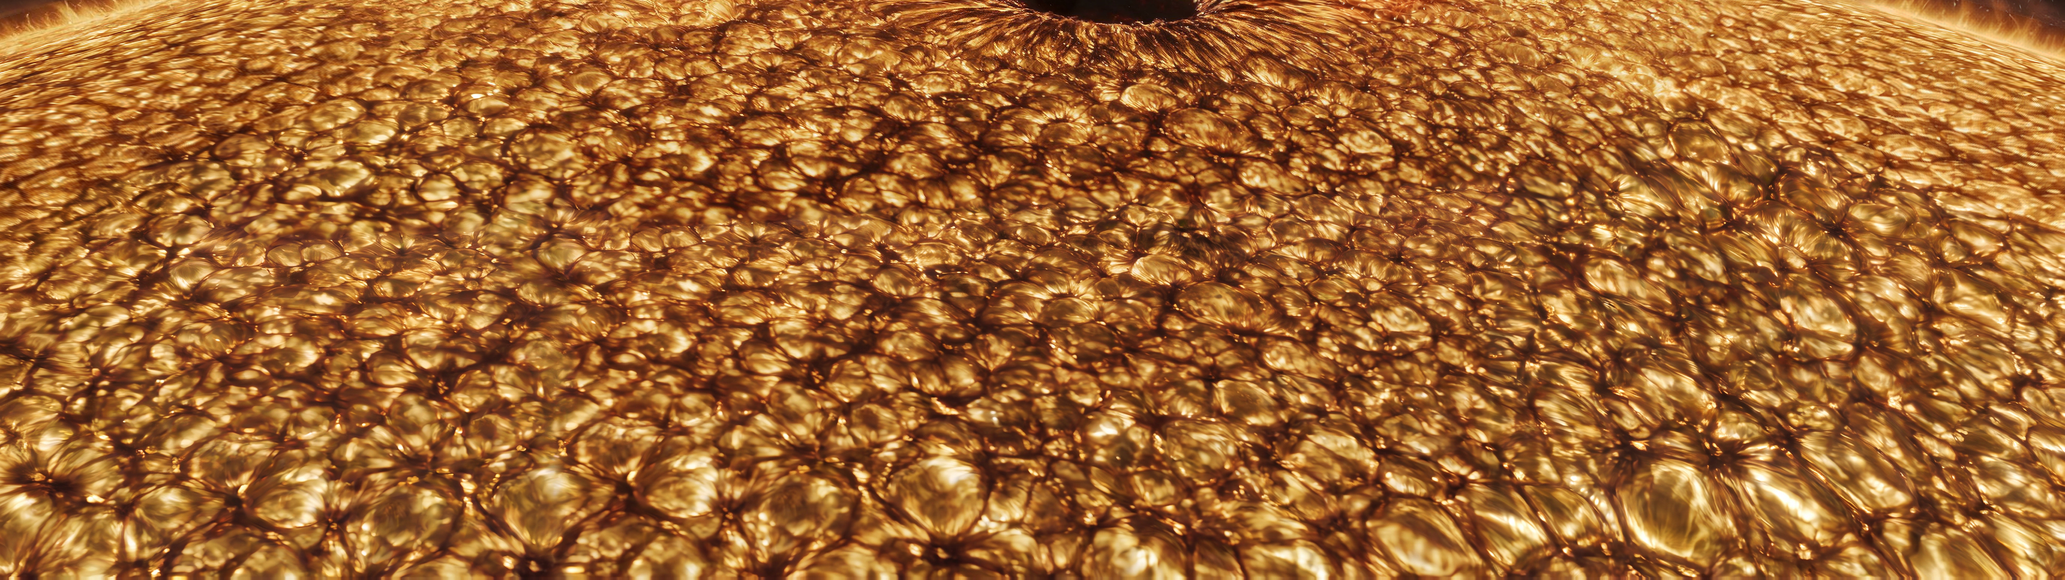
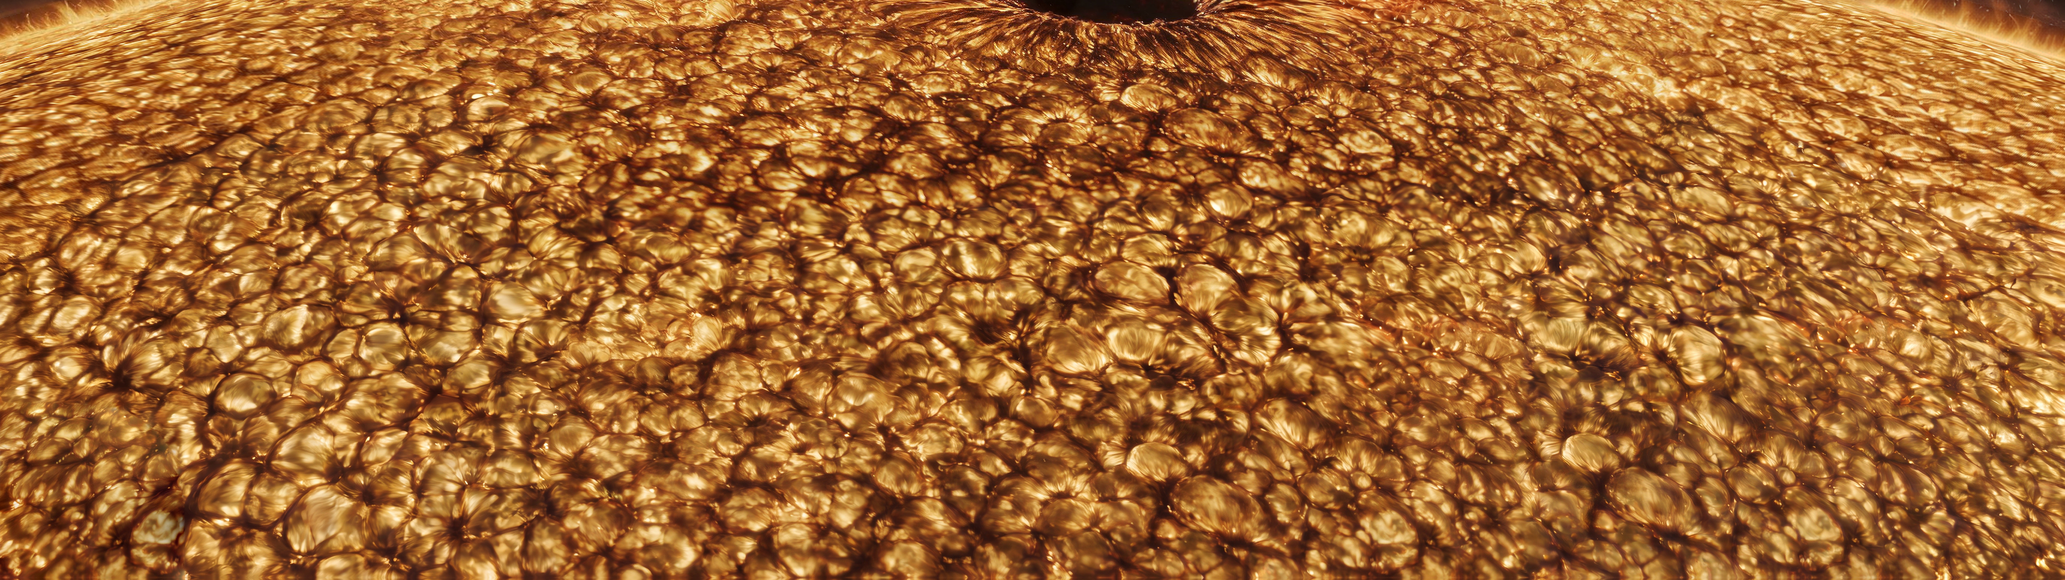
Sun: apron painted again (matte cells), feather outside the approved frame at 90, frame 0 pose on the apron camera

diff --git a/src/stops/sun/ground.ts b/src/stops/sun/ground.ts
@@ -11,7 +11,7 @@ export interface GroundLook {
   rings: number
   sectors: number
   cell: number
-  apron: { amount: number; cell: number; calm: number }
+  apron: { amount: number; cell: number; calm: number; out: [number, number] }
   band: [number, number]
   glow: [number, number]
   boil: { reach: number; period: number; step: number; max: number }
@@ -37,6 +37,7 @@ uniform sampler2D uPlate;
 uniform sampler2D uApron;
 uniform vec2 uApronSize;
 uniform float uApronOn;
+uniform float uApronOut;
 uniform vec2 uApronCell;
 uniform sampler2D uGlow;
 uniform vec4 uBox;
@@ -156,11 +157,13 @@ export class Ground {
   readonly mesh: THREE.Mesh
   readonly material: THREE.ShaderMaterial
   private readonly pulse: [number, number]
+  private readonly out: [number, number]
 
   constructor(plate: THREE.Texture, apron: THREE.Texture, glow: THREE.Texture, grade: THREE.Texture, look: GroundLook) {
     const img = plate.image as unknown as { width: number; height: number }
     const second = apron.image as unknown as { width: number; height: number }
     this.pulse = look.glow
+    this.out = look.apron.out
     const up = stage.down.clone().negate()
     const e1 = new THREE.Vector3(1, 0, 0).addScaledVector(up, -up.x).normalize()
     const e2 = up.clone().cross(e1)
@@ -175,7 +178,7 @@ export class Ground {
       vertexShader: VERT,
       fragmentShader: FRAG,
       uniforms: {
-        uGrade: { value: grade }, uPlate: { value: plate }, uApron: { value: apron }, uApronSize: { value: new THREE.Vector2(second.width, second.height) }, uApronOn: { value: look.apron.amount }, uApronCell: { value: new THREE.Vector2(look.apron.cell, look.apron.calm) }, uGlow: { value: glow }, uBox: { value: new THREE.Vector4(...stage.loopsBox) }, uGlowBeat: { value: 1 }, uSize: { value: new THREE.Vector2(img.width, img.height) },
+        uGrade: { value: grade }, uPlate: { value: plate }, uApron: { value: apron }, uApronSize: { value: new THREE.Vector2(second.width, second.height) }, uApronOn: { value: look.apron.amount }, uApronOut: { value: 0 }, uApronCell: { value: new THREE.Vector2(look.apron.cell, look.apron.calm) }, uGlow: { value: glow }, uBox: { value: new THREE.Vector4(...stage.loopsBox) }, uGlowBeat: { value: 1 }, uSize: { value: new THREE.Vector2(img.width, img.height) },
         uGain: { value: 1 }, uVignette: { value: 0 }, uAspect: { value: 16 / 9 }, uTime: { value: 0 },
         uCellSize: { value: look.cell },
         uBoil: { value: new THREE.Vector4(look.boil.reach, look.boil.period, look.boil.step, look.boil.max) },
@@ -222,6 +225,7 @@ export class Ground {
     u.uLod!.value = lod
     ;(u.uCam!.value as THREE.Vector3).copy(camera)
     u.uTime!.value = time
+    u.uApronOut!.value = THREE.MathUtils.smoothstep(time, this.out[0], this.out[1])
     u.uGlowBeat!.value = stage.litMax * (1 + lit) * (1 + this.pulse[0] * (0.6 * Math.sin(time * this.pulse[1]) + 0.4 * Math.sin(time * this.pulse[1] * 1.83)))
     u.uGain!.value = gain
     u.uVignette!.value = vignette

diff --git a/src/stops/sun/plan.ts b/src/stops/sun/plan.ts
@@ -33,7 +33,7 @@ export const climb = {
   level: 0.15,
   coast: 4,
   steps: 2048,
-  ease: { over: 3, settle: 0.55, skew: 0.6, span: 0.8 },
+  ease: { over: 3, settle: 0.55, skew: 0.6, span: 0.8, lead: 1 / 120 },
 }
 
 interface Reading { out: THREE.Vector3; height: number; level: THREE.Vector3; limb: number; vfov: number; rest: THREE.Quaternion }
@@ -84,8 +84,9 @@ export class SunPlan extends StopPlan {
     }
     const calm = sum(slow)
     const fast = sum(swoop)
-    const gain = (1 - calm[climb.steps]!) / fast[climb.steps]!
-    this.eased = calm.map((v, i) => v + gain * fast[i]!)
+    const lead = k.lead / k.over
+    const gain = (1 - lead - calm[climb.steps]!) / fast[climb.steps]!
+    this.eased = calm.map((v, i) => lead + v + gain * fast[i]!)
   }
 
   private read(pose: Pose): Reading {
@@ -149,7 +150,7 @@ export class SunPlan extends StopPlan {
 
   override terrain(tRel: number): Pose {
     const k = climb.ease
-    if (tRel <= 0) return super.terrain(tRel)
+    if (tRel <= 0) return super.terrain(k.lead + tRel)
     if (tRel >= k.over) return super.terrain(k.over + k.settle * (tRel - k.over))
     return super.terrain(k.over * this.warp(tRel / k.over))
   }

diff --git a/src/stops/sun/apron.ts b/src/stops/sun/apron.ts
@@ -37,7 +37,8 @@ vec2 apUv(vec2 b) {
 }
 float apWeight(vec3 p, vec2 b) {
   vec2 a = stImage(p);
-  float inside = smoothstep(0.0, AP_FEATHER, a.x) * smoothstep(0.0, AP_FEATHER, 1.0 - a.x) * smoothstep(0.0, AP_FEATHER, 1.0 - a.y);
+  float shift = AP_FEATHER * uApronOut;
+  float inside = smoothstep(0.0, AP_FEATHER, a.x + shift) * smoothstep(0.0, AP_FEATHER, 1.0 - a.x + shift) * smoothstep(0.0, AP_FEATHER, 1.0 - a.y + shift);
   vec3 r = p - ST_DOWN;
   float near = 1.0 - smoothstep(AP_NEAR.x, AP_NEAR.y, length(vec2(dot(r, ST_RIGHT), dot(r, ST_FWD)) - AP_NADIR));
   float beyond = max(max(-b.x, b.x - 1.0), b.y - 1.0);

diff --git a/src/stops/sun/look.ts b/src/stops/sun/look.ts
@@ -48,7 +48,7 @@ export const ground: GroundLook = {
   rings: 252,
   sectors: 288,
   cell: 0.16,
-  apron: { amount: 1, cell: 0.1, calm: 0 },
+  apron: { amount: 1, cell: 0.1, calm: 0, out: [-1, -0.1] },
   band: [2.2, 1.2],
   glow: [0.22, 4.3],
   boil: { reach: 0.25, period: 2.6, step: 0.3, max: 0.06 },

diff --git a/assets-src/sun/terrain/apron2.py b/assets-src/sun/terrain/apron2.py
@@ -9,6 +9,8 @@ TILE = 2752
 AT = {'C': 1376, 'L': 0, 'R': 2752}
 GREY_FROM = 0.4
 MARGIN = 160
+EDGE = 12
+FEATHER = 3
 CANVAS = f'{WORK}/apron2-canvas.png'
 DONE = f'{WORK}/apron2-done.png'
 
@@ -54,7 +56,7 @@ def place(name):
     warp = np.eye(2, 3, dtype=np.float32)
     cc, warp = cv2.findTransformECC(g0, g1, warp, cv2.MOTION_AFFINE, (cv2.TERM_CRITERIA_EPS | cv2.TERM_CRITERIA_COUNT, 300, 1e-7), small(keep, cv2.INTER_NEAREST), 5)
     warp[:, 2] *= k
-    moved = cv2.warpAffine(take, warp, (w, h), flags=cv2.INTER_CUBIC | cv2.WARP_INVERSE_MAP, borderMode=cv2.BORDER_REPLICATE)
+    moved = cv2.warpAffine(take, warp, (w, h), flags=cv2.INTER_CUBIC | cv2.WARP_INVERSE_MAP, borderMode=cv2.BORDER_REFLECT_101)
     m = keep > 0
     a = src[m].astype(np.float64).mean(0)
     b = moved[m].astype(np.float64).mean(0)
@@ -64,6 +66,8 @@ def place(name):
     moved = np.clip(o * ((a / b)[None, None, :] * (1 - hot) + hot), 0, 255)
     alpha = np.clip(cv2.GaussianBlur(grey.astype(np.float32), (0, 0), 8) * 2, 0, 1)[..., None]
     canvas = read(CANVAS)
+    if name != 'C':
+        alpha = alpha * cut(name, grey, canvas[:, x:x + w].astype(np.float32), moved)[..., None]
     canvas[:, x:x + w] = np.clip(canvas[:, x:x + w] * (1 - alpha) + moved * alpha, 0, 255).astype(np.uint8)
     write(CANVAS, canvas)
     done = read(DONE)
@@ -75,6 +79,60 @@ def place(name):
     write(DONE, done)
     json.dump({'matrix': warp.tolist(), 'cc': float(cc), 'means': [a.tolist(), b.tolist()], 'kept difference': diff}, open(f'{WORK}/apron2-place-{name}.json', 'w'))
     print(name, 'cc', round(float(cc), 4), 'matrix', warp.round(4).tolist(), 'kept ground: mean abs difference', round(diff, 2), 'means', a.round(1), b.round(1))
+
+
+def mend(name, other, box):
+    x0, y0, x1, y1 = box
+    take = read(f'{WORK}/apron2-take-{name}.png')
+    donor = read(f'{WORK}/apron2-take-{other}.png')
+    h, w = take.shape[:2]
+    patch = donor[y0:y1, w - x1:w - x0][:, ::-1].copy()
+    pad = 48
+    big = cv2.copyMakeBorder(take, pad, pad, pad, pad, cv2.BORDER_REFLECT_101)
+    src = cv2.copyMakeBorder(patch, pad, pad, pad, pad, cv2.BORDER_REFLECT_101)
+    mask = np.zeros(src.shape[:2], np.uint8)
+    ph, pw = patch.shape[:2]
+    yy, xx = np.mgrid[0:src.shape[0], 0:src.shape[1]].astype(np.float32)
+    inside = ((xx - pad) / pw) ** 4 + ((ph + pad - yy) / ph) ** 4 < 0.82
+    mask[inside] = 255
+    mask[:8] = 0
+    mask[:, -8:] = 0
+    mask[-8:] = 0
+    mask[:, :8] = 0
+    centre = (x0 + pad + pw // 2, y0 + pad + ph // 2)
+    ys, xs = np.nonzero(mask)
+    cx, cy = (int(xs.min()) + int(xs.max())) // 2, (int(ys.min()) + int(ys.max())) // 2
+    centre = (x0 + cx, y0 + cy)
+    out = cv2.seamlessClone(cv2.cvtColor(src, cv2.COLOR_RGB2BGR), cv2.cvtColor(big, cv2.COLOR_RGB2BGR), mask, centre, cv2.NORMAL_CLONE)
+    out = cv2.cvtColor(out, cv2.COLOR_BGR2RGB)[pad:pad + h, pad:pad + w]
+    write(f'{WORK}/apron2-take-{name}.png', out)
+    print(name, 'mended from', other, box, 'changed share', round(float((np.abs(out.astype(np.int32) - take).sum(axis=2) > 6).mean()), 4))
+
+
+def cut(name, grey, old, new):
+    h, w = grey.shape
+    lo, hi = (AT['C'] - AT[name], AT['C'] + MARGIN - AT[name]) if name == 'L' else (AT['C'] + TILE - MARGIN - AT[name], AT['C'] + TILE - AT[name])
+    lo, hi = lo + EDGE, hi - EDGE
+    rows = np.nonzero(grey[:, lo:hi].all(axis=1))[0]
+    top, n = int(rows.min()), hi - lo
+    cost = cv2.GaussianBlur(np.abs(old - new).sum(axis=2), (0, 0), 2)[top:, lo:hi].astype(np.float64)
+    acc = cost.copy()
+    for r in range(1, acc.shape[0]):
+        prev = acc[r - 1]
+        best = np.minimum(prev, np.minimum(np.concatenate(([np.inf], prev[:-1])), np.concatenate((prev[1:], [np.inf]))))
+        acc[r] += best
+    path = np.zeros(acc.shape[0], np.int32)
+    path[-1] = int(np.argmin(acc[-1]))
+    for r in range(acc.shape[0] - 2, -1, -1):
+        c = path[r + 1]
+        a, b = max(c - 1, 0), min(c + 2, n)
+        path[r] = a + int(np.argmin(acc[r, a:b]))
+    side = np.ones((h, w), np.float32)
+    cols = np.arange(w)[None, :]
+    line = (lo + path)[:, None]
+    side[top:] = (cols < line) if name == 'L' else (cols >= line)
+    print(name, 'cut: mean cost on the path', round(float(cost[np.arange(len(path)), path].mean()), 1), 'in the band', round(float(cost.mean()), 1), 'columns', int(path.min()) + lo, 'to', int(path.max()) + lo)
+    return cv2.GaussianBlur(side, (0, 0), FEATHER)
 
 
 def build():
@@ -92,5 +150,7 @@ if __name__ == '__main__':
         tile_input(sys.argv[2])
     if cmd == 'place':
         place(sys.argv[2])
+    if cmd == 'mend':
+        mend(sys.argv[2], sys.argv[3], [int(v) for v in sys.argv[4:8]])
     if cmd == 'build':
         build()

diff --git a/assets-src/sun/RECIPE.md b/assets-src/sun/RECIPE.md
@@ -120,16 +120,22 @@ Shared inputs:
 
 - What it is: the near ground that the approved image does not show (the camera of frame 0 is 1.45 camera heights behind and 0.52 above the approved pose). It is projected from the frozen camera of frame 0 and mixed in outside the approved frame.
 - Output: `apron.jpg` 5504 x 1548 (rows 0.5 to 1 of the picture of frame 0) and 2752 x 774, JPEG 92 and 88, 4:4:4.
-- `src/stops/sun/apron.json`: `npx tsx assets-src/sun/terrain/apron-pose.ts`, the camera of frame 0 at the time of the take (position, quaternion, field of view), the first row kept, the reach on the ground (full within 3.0 camera heights of the point under that camera, gone at 3.6) and the feather inside the approved frame (0.04 of the frame). The projector does not follow the plan: if the terrain move changes, frame 0 no longer gives the painting back exactly, and the takes should be made again.
+- `src/stops/sun/apron.json`: `npx tsx assets-src/sun/terrain/apron-pose.ts`, the camera of frame 0 at the time of the take (position, quaternion, field of view), the first row kept, the reach on the ground (full within 3.0 camera heights of the point under that camera, gone at 3.6) and the feather inside the approved frame (0.04 of the frame). The projector does not follow the plan: if the terrain move changes, frame 0 no longer gives the painting back exactly, and the takes should be made again. The pose is the base glide at 1/120 s (the middle of the shutter of frame 0 before the eased start existed). `climb.ease.lead` in `plan.ts` (1/120 s) starts the eased glide at that pose, so frame 0 is the canvas itself; without it the camera stood 0.0044 units further back and the left 8 px of frame 0 showed the mirrored wrap of the plate.
 - Base picture: `out/work/sun/apron-base.png`, frame 0 at the draft tier without grain (`npm run still -- --frame 0 --tier draft --diag nograin`), with `look.ground.boil.reach` 0, `look.ground.twinkle.amount` 0 and `look.ground.apron.amount` 0. Its lower half (rows 540 to 1079) is enlarged to 5504 x 1548: `python3 tools/ml/upscale.py --in out/work/sun/apron2-base-low.png --out out/work/sun/apron2-base-low-x.png --width 5504`.
 - Painted in three tiles of 2752 x 1548 on that canvas, so the plate holds 2.87 painted pixels for each pixel of frame 0 (the first version was one take of the whole frame, 1.43, enlarged). Script: `assets-src/sun/terrain/apron2.py`, run with `PYTHONPATH=assets-src/sun/terrain`: `start`, then for the tiles C (columns 1376 to 4127), L (0 to 2751) and R (2752 to 5503): `input NAME` (the canvas with flat grey 128 wherever the apron weight is 0.4 or more and nothing is painted yet), one generation, `place NAME` (affine placement of the take on the tile over the kept ground by ECC, channel means matched over the kept ground with the match fading out above 170 to 245 of 255, pasted into the grey area with a soft edge), then `build`. L and R see the finished centre in their inner half, less a margin of 160 px that they paint again, so cells run on across the tile borders.
 - Tool and model: `generate_image`, model `nano_banana_pro`, aspect 16:9, images: the tile input only.
-- Prompt for tile C, exact: "This picture is part of a film frame of the surface of the Sun in which the lower part has been painted out with flat grey. Fill the whole grey area by continuing the picture downward seamlessly, so the result is one single finished picture with no visible seam and no grey left anywhere. The grey area is the foreground of the same boiling golden solar surface: granulation cells of the same look, color, contrast and lighting as the cells just above the grey edge, each cell a rounded swollen dome of glowing plasma with a bright golden crown, fine wispy filaments on its skin, small white-hot glints, and narrow dark brown lanes between the cells. The ground is one continuous surface that comes only a little closer to the camera toward the bottom of the picture, so the cells grow only slightly and steadily toward the bottom edge: just below the grey edge they are exactly the same size as the cells above it, and at the bottom edge of the picture they are about one and a half times as large. There are no giant cells anywhere: the grey area holds many hundreds of small cells, nothing else. Every cell is crisp and sharply detailed, in full focus, with no blur, no smearing, no stretching and no haze. Keep everything outside the grey area exactly as it is, same position and size: the dark sunspot at the top edge stays the only sunspot in the picture. No second sunspot, no dark holes, no radial filament patterns in the new area, no arcs, no new light sources, no horizon, no sky, no text, no border, no vignette, no depth of field blur. Wide 16:9 picture."
-- Prompt for tiles L and R, exact, with SIDE = left or right: "This picture is part of a film frame of the surface of the Sun in which a large area at the lower SIDE has been painted out with flat grey. Fill the whole grey area by continuing the picture seamlessly, so the result is one single finished picture with no visible seam and no grey left anywhere. The grey area is more of the same boiling golden solar surface: granulation cells of the same look, color, contrast and lighting as the cells that border the grey area, each cell a rounded swollen dome of glowing plasma with a bright golden crown, fine wispy filaments on its skin, small white-hot glints, and narrow dark brown lanes between the cells. The ground is one continuous surface that comes only a little closer to the camera toward the bottom of the picture: at every height of the picture the new cells are the same size as the finished cells beside the grey area at that height, small near the top of the grey area and about one and a half times as large at the bottom edge of the picture. There are no giant cells anywhere: the grey area holds many hundreds of cells, nothing else. Cells that are cut by the grey edge continue naturally into the new area. Every cell is crisp and sharply detailed, in full focus, with no blur, no smearing, no stretching and no haze. Keep everything outside the grey area exactly as it is, same position and size. No sunspot, no dark holes, no radial filament patterns in the new area, no arcs, no new light sources, no horizon, no sky, no text, no border, no vignette, no depth of field blur. Wide 16:9 picture."
-- Takes in round 10: 4 of 6. Tile C take 1 (`out/work/sun/apron2-take-C-rejected1.png`, with the lower half of the approved image as a second picture for style) pasted that picture into the grey area, with a second sunspot: not used, and no style picture since. Tile C take 2, tile L take 1 and tile R take 1 are kept (`out/work/sun/apron2-take-C.png`, `-L.png`, `-R.png`). Placement: correlation 0.996, 0.995, 0.998; each take is the tile cropped by 0.8 percent in height.
-- Why it replaced the first version (one take of the whole frame, 2 takes before the round, `assets-src/sun/terrain/apron.py register` and `build`): that prompt asked for cells three times as large at the bottom edge. The true growth from the edge of the approved ground to the bottom of frame 0 is 1.4 in width (distance 2.6 to 1.87 camera heights). On frame 60 the painted cells below row 935 were about 2.5 times the size of the approved cells just above them, and soft (0.7 painted pixels for each frame pixel).
+- Painted again in round 11, because the critics of round 10 found the round 10 cells glossy like molten metal, with diagonal streaks and soft blobs along the bottom. The prompts now describe the surface as matte cloud and forbid sheen and streaks.
+- Prompt for tile C, exact: "This picture is part of a film frame of the surface of the Sun in which the lower part has been painted out with flat grey. Fill the whole grey area by continuing the picture downward seamlessly, so the result is one single finished picture with no visible seam and no grey left anywhere. The grey area is the foreground of the same boiling golden solar surface: convection cells of the same look, color, contrast and lighting as the cells just above the grey edge. Each cell is a soft, swollen, pillow-like dome of incandescent gas, like the top of a glowing cumulus cloud lit from within: a soft creamy gold crown that falls off to deep orange and then dark brown on its flanks, with fine fibrous veins and wisps running down the flanks. The surface of every cell is matte and soft like glowing cloud or embers. It is not metal, not gold foil, not liquid, not glass: no glossy sheen, no mirror reflections, no long bright streaks, no ripples. Between the cells run deep, wide, dark brown to nearly black clefts, so every cell stands out as its own rounded cushion with real depth. The ground is one continuous surface that comes only a little closer to the camera toward the bottom of the picture, so the cells grow only slightly and steadily toward the bottom edge: just below the grey edge they are exactly the same size as the cells above it, and at the bottom edge of the picture they are about one and a half times as large. There are no giant cells anywhere: the grey area holds many hundreds of small cells, nothing else. Every cell is crisp and sharply detailed, in full focus, with no blur, no smearing, no stretching and no haze. Keep everything outside the grey area exactly as it is, same position and size: the dark sunspot at the top edge stays the only sunspot in the picture. No second sunspot, no dark holes, no radial filament patterns in the new area, no arcs, no new light sources, no horizon, no sky, no text, no border, no vignette, no depth of field blur. Wide 16:9 picture."
+- Prompt for tiles L and R, exact, with SIDE = left and OTHER = to the right, or SIDE = right and OTHER = to the left: "This picture is part of a film frame of the surface of the Sun in which a large area at the lower SIDE has been painted out with flat grey. Fill the whole grey area by continuing the picture seamlessly, so the result is one single finished picture and the border between the old part and the new part is impossible to find: no straight line, no step in brightness, no change of cell size along the former grey edge. Cells that are cut by the grey edge are completed across it. The grey area is more of the same boiling golden solar surface: convection cells of exactly the same size, look, color, brightness, contrast and lighting as the finished cells directly OTHER of the grey area. Each cell is a soft, swollen, pillow-like dome of incandescent gas, like the top of a glowing cumulus cloud lit from within: a soft creamy gold crown that falls off to deep orange and then dark brown on its flanks, with fine fibrous veins and wisps running down the flanks. The surface of every cell is matte and soft like glowing cloud or embers. It is not metal, not gold foil, not liquid, not glass: no glossy sheen, no mirror reflections, no long bright streaks, no ripples. Between the cells run deep, narrow, dark brown clefts, so every cell stands out as its own rounded cushion with real depth. The cells are small and all about the same size: at every height of the picture the new cells are exactly as small as the finished cells beside the grey area at that height, and they do not get larger toward the SIDE edge of the picture. Toward the bottom edge they grow only slightly, to at most one and a half times the size of the cells at the top of the grey area. There are no large cells anywhere: the grey area holds many hundreds of small cells, nothing else. The whole new area is evenly bright: no dark patches, no dark pits, no holes, no places where dark fibres converge in a star, no sunspot, no pores. Every cell is crisp and sharply detailed, in full focus, with no blur, no smearing, no stretching and no haze. Keep everything outside the grey area exactly as it is, same position and size. No arcs, no new light sources, no horizon, no sky, no text, no border, no vignette, no depth of field blur. Wide 16:9 picture."
+- Takes in round 11: 6 of 6. Tile C: take a (`out/work/sun/apron3-take-C-a.png`, the prompt above) is kept; take b (`apron3-take-C-b.png`, the same prompt plus a mirrored crop of the approved image's lower left as a look reference, `out/work/sun/apron3-style.png`) came out softer and flatter and is not used. Tiles L and R: takes a (`apron3-take-L-a.png`, `apron3-take-R-a.png`, the round 10 wording for cell size with the new wording for the surface) had cells about twice the size of the centre's and dark star pits, with a straight step at the border of the centre tile: not used. Takes b (the prompt above) are kept.
+- Join of the side tiles: `place` cuts each side tile against the finished centre along the path of least difference inside the 160 px they both paint (`cut`, dynamic programming down the rows, 3 px feather), not along a straight column. Mean difference on the path 58.8 (L) and 48.2 (R) against 146.6 and 122.9 in the band.
+- Mend: the lower left corner of tile L take b was smeared, with a lump of bright shards in the corner. `apron2.py mend L C 0 1040 520 1536` replaces that corner with the mirrored lower right corner of tile C take a by Poisson cloning (`cv2.seamlessClone`, 5.3 percent of the tile changes). The donor sits at columns 1259 to 1395 of frame 0, the mended corner at columns 0 to 181, mirrored. A first mend from the corner of tile R brought that corner's long diagonal cells with it and was dropped.
+- The six rows the takes do not cover at the bottom (each take is the tile cropped by 0.8 percent in height) are filled by reflection (they were a stretched last row in round 10, 2 px of vertical stripes at the bottom of frame 0).
+- Order: `start`, `input C`, copy take C to `out/work/sun/apron2-take-C.png`, `place C`, `input L`, copy take L, `mend L C 0 1040 520 1536`, `place L`, `input R`, `place R`, `build`. Placement: correlation 0.996, 0.997, 0.997.
+- Round 10 version (3 tiles, 4 of 6 takes, kept under `out/work/sun/apron2-take-*-round10.png` and `apron-round10-full.jpg`): same method with a prompt that asked for "rounded swollen dome of glowing plasma with a bright golden crown, fine wispy filaments on its skin, small white-hot glints". It replaced the first version (one take of the whole frame, `assets-src/sun/terrain/apron.py register` and `build`), whose prompt asked for cells three times as large at the bottom edge; the true growth from the edge of the approved ground to the bottom of frame 0 is 1.4 in width (distance 2.6 to 1.87 camera heights). Lesson of round 10: no style picture that has the same layout as the tile (the model pasted it in, with a second sunspot).
 - Earlier tries, not shipped: two top-down granulation fields (`out/work/sun/apron-take1.png` with `seedream_5`, `out/work/sun/apron-take2.png` with `nano_banana_pro`), whose cells did not look like the cells of the approved image.
-- Checks: frame 0 with the base itself as the apron gives the base back in place; native crops of the lower part of frames 0, 30 and 60; frame 90 unchanged.
+- Feather: at frame 0 the plate is mixed in over 0.04 of the frame inside the approved frame's left, right and bottom edges. `look.ground.apron.out` [-1, -0.1] (seconds from the judged terrain frame) moves that feather to the outside of the approved frame between frames 60 and 87 (`uApronOut` in `ground.ts`, `shift` in `apron.ts`), so at frame 90 the approved frame is the approved pixels to its edges.
+- Checks: frame 0 with the base itself as the apron gives the base back in place; native crops of the lower part of frames 0, 30, 60 and 75 at final; `mirrorcheck.py` clean on 0, 30, 60, 90; frame 90 against the approved image in the bottom 43 rows (mean difference 10.7, was 19.9) and the side 77 columns (left 19.3, was 25.2; right 13.3, was 16.9); draft sequence 56 to 100 and 186 to 214 without a jump.
 
 ### public/assets/sun/<set>/sky-terrain.webp
 

diff --git a/assets-src/sun/NOTES.md b/assets-src/sun/NOTES.md
@@ -285,3 +285,52 @@ Engine facts read for the rise (src/director/moves.ts): cover window fixed by co
 - Leaving at draft, 440 to 490: neighbour difference 1.1 across 449 to 450, smooth to 16.7 at 464, 1.2 at 478. At twice exposure a horizontal edge in the sky at 484 to 490, moving with the sky; my cards are at weight 0 there. Reported to the Builder as seen, origin not confirmed.
 - Weak points told to the Builder: flat gold 214 to 218; apron cells soft and glossy at 0 and 60; faint edge 0.5 deg above the limb at x 330 to 440 of frame 90; sky left of the left foot 4 to 6 levels under approved; stars within 4 deg of the limb are not the approved stars; hold card structure at 5 times exposure; comb fringe, curl motif, prominence edges untouched.
 - The rounds mirror the head of `agent/sun` when a round starts: push only work that is verified. Keep experiments in the working tree.
+
+## Apron painted again, round 11 (12:00 to 12:20 UTC), not committed until verified
+
+- Why: item 5 of round 10 (soft amber blobs along the bottom, glossy molten metal look, diagonal streaks) is in the painted apron itself. The round 10 prompt said "glowing plasma ... wispy filaments ... white-hot glints", which the model reads as polished gold.
+- New prompts (in `RECIPE.md`): matte, cloud-like pillow cells, "not metal, not gold foil, not liquid, not glass", deep dark clefts. Tile C take a kept. Take b with a look reference from the approved image came out softer: a look reference does not help here.
+- Side tiles: first takes had cells twice the centre's size and a straight step at the centre tile's border. Second prompt names the neighbour's cell size and forbids growth to the side and dark pits: kept.
+- `apron2.py`: `cut` joins the side tiles to the centre along a least difference path inside the shared 160 px; `mend` replaces a smeared corner of tile L by the mirrored lower right corner of tile C (Poisson clone; the corner of tile R was tried first and brought long diagonal cells); the warp fills its missing bottom rows by reflection instead of a stretched last row.
+- 6 of 6 takes of the apron used in round 11. No more takes for it this round.
+- Round 10 files kept: `out/work/sun/apron-round10-full.jpg`, `apron-round10-web.jpg`, `apron2-take-*-round10.png`, `apron2-canvas-round10.png`.
+- To verify before commit: frames 0, 30, 60 at final (`out/work/sun/ap5`), frame 90 unchanged, G17 and G13 on the terrain segment, a draft sequence 0 to 90 for the motion.
+
+## Apron verified, feather moved out, frame 0 pose (12:30 to 12:50 UTC)
+
+- Correction of an old note: frame 90 does see the apron. The plate is mixed in over the 4 percent feather inside the approved frame (77 px at the sides, 43 px at the bottom). With the round 10 apron those rows were streaky (part of R3's "streaks toward the corners").
+- `look.ground.apron.out` [-1, -0.1] (seconds from the judged terrain frame): `uApronOut` goes 0 to 1 between frames 60 and 87 and moves the feather to the outside of the approved frame (`shift` in `apron.ts`; `out` is a reserved word in GLSL). Frame 60 is unchanged (max difference 1 level), frame 90 at final against approved: bottom 43 rows mean difference 10.7 (was 19.9), left 77 columns 19.3 (25.2), right 13.3 (16.9). The centre of the ground stays at 14.1: that is added fine detail and the 1 to 2 px offsets, not a tone error.
+- The band morphs between 60 and 87 without a visible wipe: draft 56 to 100 neighbour difference falls evenly from 7.8 to 5.7, crops of the lower left at 60, 66, 72, 78, 84, 90 viewed (`out/work/sun/i53-dissolve-BL.jpg`). Rise 186 to 214 at draft: no ground edge seen, differences smooth.
+- Mirrored chevrons in the left 8 px of frame 0: `apron.json` is the base glide at 1/120 s (middle of the shutter of frame 0 when the takes were made, before the eased start). With the eased start the film's frame 0 stood at glide time 0, 0.0044 units further back, and saw past the canvas into its mirrored wrap. `climb.ease.lead` 1/120 in `plan.ts`: the warp starts at that glide time (`eased = lead / over + calm + gain x fast`, gain solved again so the warp still ends at 1 with speed `settle`). Frame 0 pose now equals the json to 5e-7; chevrons gone (`out/work/sun/i57-f0-edges-lead.png`); frame 90 identical byte for byte, frame 60 differs by 0.07 levels in the mean. Corner speeds unchanged (0.2 px at frame 0, 10.6 at 30, 6.0 at 90).
+- The approved close image is itself defocused and streaked in its bottom corners (`out/work/sun/i51-f90-BR-approved-ap6-ap7.png`). At frame 90 the film now shows exactly that. Not to be "fixed": R1 judges against it.
+- Cover 214 to 218 measured again at draft: gold 238/207/115 at the frame edge, 255/253/246 at the core, 3.3 percent of pixels above 240 in all channels, the core drifts 20 px a frame. Left as it is: the kit asks for a bloom to bright gold for a moment.
+- G5 and G17 with the new apron before the shift (`measure5.log`): coverage 0.571, 0.520, 0.511, 0.312, 0.309; G17 median/p25 1.352/1.092 (0), 1.085/0.999 (60), 1.079/0.988 (90), 1.014/0.910 (360).
+
+## Round 15 result (12:52 UTC): my round 2 of 3, judged on main at 992e56f. Round 3 is the last: what it holds is what ships
+
+Scores: R1 8 (was 7), R3 3 (parts 6, 3, 7; lowest counts), R4 4. R2 pass, R8 pass, G5 G13 G17 green. Bar: R1, R3, R4 each 9, no severe or major open.
+
+Corrections from the Builder, worst first (his words kept where they bind):
+1. RISE 204 to 229 (R4 severe, R4 major on the cover 211 to 222). "change technique, do not tune." "The whiteout is withdrawn as a technique." 212 to 218 are a featureless yellow field with a white core. Wanted: "at the swap frames the relief view and the globe view must show the same thing, the limb arc at the same height with the same curvature, the sunspot region at the same place, the same exposure and color, the same direction of travel (up and back). So: let the relief camera climb and tilt until its horizon bows like the globe's limb at that height, start the globe view from that exact framing, dissolve over a few frames, then ease the pullback to the hold. Glare is allowed only as a partial veil bound to a footpoint that moves with the camera; the limb stays readable in every frame (as a guide, limb contrast never under a third of what frame 204 has)." Motion before everything else.
+2. FRAME 247 right sky (R3 severe): straight vertical edge at x 1735, y 380 to 860, brighter and warmer on its left, darker and bluer on its right; not there at 360. The border of the hold sky patch in frame while the camera is not yet on the hold framing. "the patch fades into the shared star sky outside the approved border on all four sides over a wide feather, no mirror padding, inside the border nothing changes. Check 229 to 269 and the whole hold drift at review tier."
+3. FRAME 90 sky round the arch (R3 severe, R1 major): "a jagged, posterized black moat outlines the outer edge of the warm glow patch"; seen with 2.2 times gain on x 760 to 1500, y 0 to 420. "The glow must fall off monotonically, never darker than the sky outside it." Keep the falloff in float, dither at output.
+4. NEAR GRANULATION (R3 major at 0, 60, 90): smeared streaky brush strokes stretched diagonally at 60 lower right; soft, mushy, muddy brown between the cells at 0 bottom strip; blurred and radially stretched toward the bottom corners at 90.
+5. GLOSS (R3 major at 0 and 90): glossy specular highlights, wet liquid gold, hammered metal, "hard pinpoint specular glints inside dark intergranular lanes". "The approved close image wins where it shows the same. Where your relief, lighting or sharpening adds highlights the image does not have, take them out. Compare native crops first."
+6. CORONA (R3 major at 247 and 360): dark patches shaped like the sky's dust lanes cutting into the warm rays at x 1380 to 1730, y 380 to 630. "Where the hero shows the same, leave it. Where your sky shows through darker than the hero, lift it." Also "long, nearly parallel strands have the same soft blur and taper" at 360 lower limb.
+7. ACTIVE REGIONS (R3 major at 360): same tight rosette shape. Hero wins where it shows them.
+8. TERRAIN MOTION 0 to 179 (R4 major and minor): "granulation is replaced between samples 16 frames apart, so the ground swims instead of flowing. Near ground and horizon do not read as depth"; "the limb drifts about 24 pixels and the dark sunspot region slides down about 50 pixels, with no eased start from rest". Wanted: "every granule keeps its identity from frame to frame and travels toward the camera with the ground; boil only evolves a cell in place, slowly; near cells pass clearly faster than far ones across all 180 frames; eased start."
+9. HOLD MOTION 270 to 449 (R4 minor): surface features and prominences stay frozen. "A slow continuous turn inside what the hero covers; prominences may drift, never pop."
+10. NOT CONFIRMED, do not chase: mirror seams behind the sunspot at 90 (the approved image shows the same shapes). Only if a relief texture is mirror padded somewhere that can come into frame, fix that.
+
+Minors, only after 1 to 9: hold limb thin continuous yellow-orange outline (360), sharp bright hairline rim with a thin dark gap (247); smooth amber veil just inside the limb; stars brighter and larger than the target in hold and terrain; footpoints "broader yellow pools"; arch "more uniformly orange"; sunspot "distinct slanted dark patch" at left; frame 0 "a dark, smoky band lies between the limb glow and the starfield"; loops like steel wool; spicules comb-like; "an artificial ruler-straight horizontal bright streak" above the left footpoint at 90; stars at the left edge at 90 "smeared into elongated coma blobs and doubled smudges".
+
+Rules: sky patches fade into the shared star sky outside the approved border and change nothing inside (`python3 tools/assets/mirrorcheck.py <png...>`); the approved image wins in the hold and terrain frame when a critic faults what the approved image itself shows; stepped copies in fast frames are an engine matter, report, do not work round; every number from `config/showcase.json`; every generated asset has a recipe; only my folders on `agent/sun`. Engine batch 13 (sky change for the travels) is coming; merge origin/main before READY.
+
+READY format: `READY <commit> round 3`, then changes per item number, what is still weak, measures (G5, G13, G17, mirrorcheck). Before sending: render my own rise sheet and rise cover sheet at review tier and look at every frame from 200 to 235: "if any frame has no readable limb, it is not ready."
+
+Found by me just before the mail (12:50): `plate.py` blends the wide take with the approved image INSIDE the approved frame: `FEATHER` 90 canvas px (46 film px) for the ground, `FEATHER_SKY` 380 canvas px (194 film px) for the sky. So at frame 90 the outer 194 px of the sky (top, left, right) are partly the wide take: other stars, a nebula patch at the top left, 4 to 8 levels brighter than approved in rows 0 to 60 at x 0 to 800 (`out/work/sun/i62-f90-topleft-x3-approved-film-base.png`). Likely the cause of "stars at the left edge at 90 smeared into ... doubled smudges" and part of R1's lifted sky floor. To fix with item 3: approved pixels to the frame edge, the wide take matched outside.
+
+## Checkpoint (13:01 UTC): apron round 11, feather shift, lead
+
+- Measures on the working tree (`measure6.log`, `--every 2`, 597 s): G13 0 of 217 soft; G5 coverage 0.571, 0.520, 0.511, 0.312, 0.309; G17 median/p25 1.365/1.092 (0), 1.085/0.999 (60), 1.089/1.022 (90), 1.014/0.910 (360). Tests 59 of 59. G11, G12, G15 pass. On disk web 12 MB, full 35 MB.
+- Order for round 3: item 1 (rise as a matched dissolve, no whiteout), 2 (hold sky border), 3 (moat at 90, plate feather inside the approved frame), 8 (terrain motion), 9 (hold turn), then 4 to 7, then minors.
